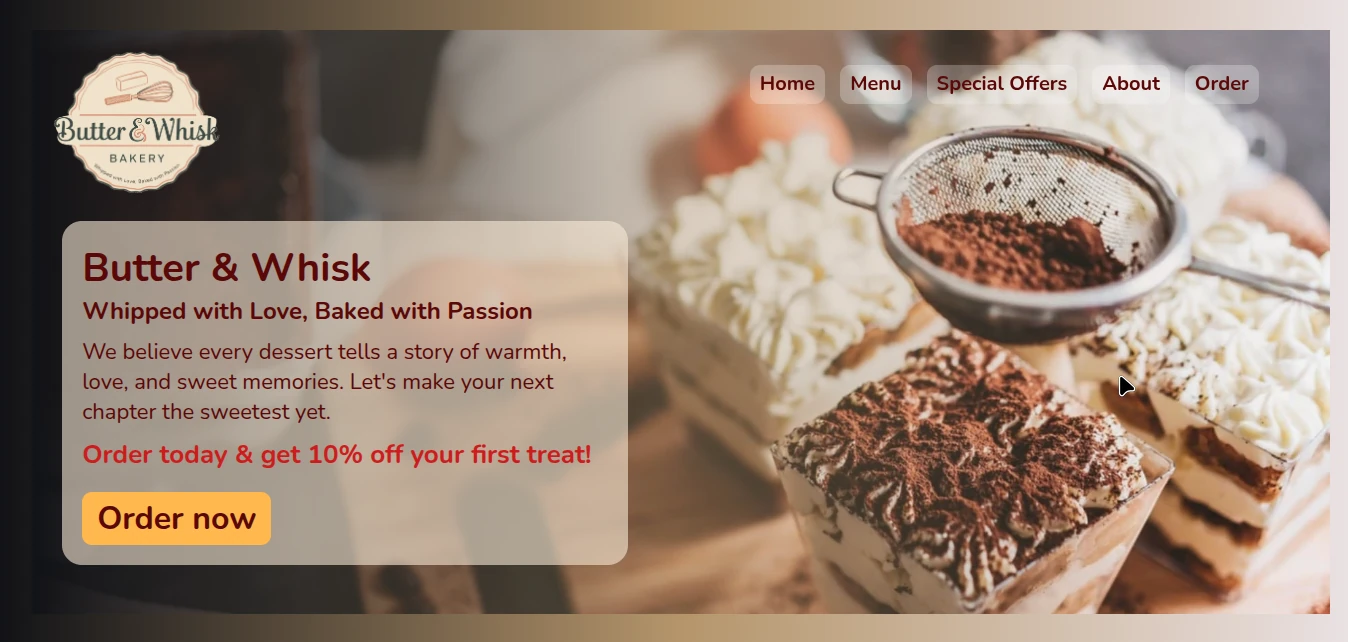
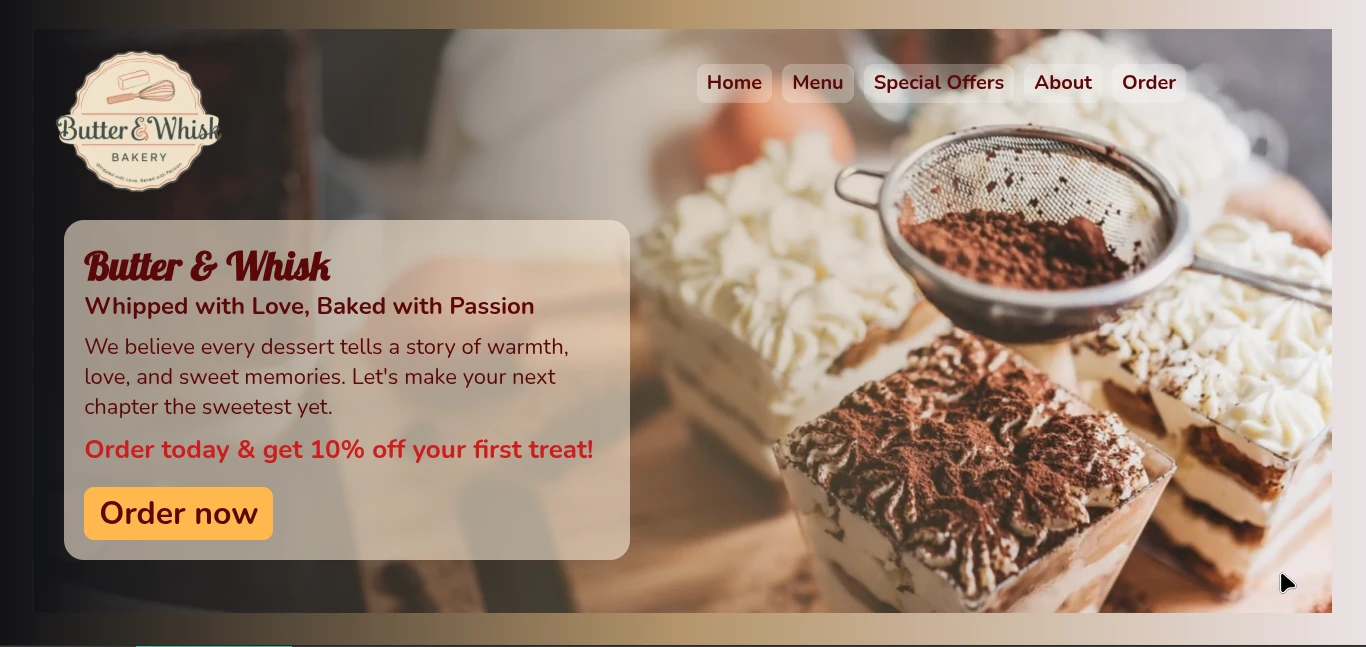
change the font of h1 ,adding new font to css file, change desktop,mobile screenshots

diff --git a/normalize.css b/normalize.css
@@ -1,0 +1,349 @@
+/*! normalize.css v8.0.1 | MIT License | github.com/necolas/normalize.css */
+
+/* Document
+   ========================================================================== */
+
+/**
+ * 1. Correct the line height in all browsers.
+ * 2. Prevent adjustments of font size after orientation changes in iOS.
+ */
+
+html {
+  line-height: 1.15; /* 1 */
+  -webkit-text-size-adjust: 100%; /* 2 */
+}
+
+/* Sections
+   ========================================================================== */
+
+/**
+ * Remove the margin in all browsers.
+ */
+
+body {
+  margin: 0;
+}
+
+/**
+ * Render the `main` element consistently in IE.
+ */
+
+main {
+  display: block;
+}
+
+/**
+ * Correct the font size and margin on `h1` elements within `section` and
+ * `article` contexts in Chrome, Firefox, and Safari.
+ */
+
+h1 {
+  font-size: 2em;
+  margin: 0.67em 0;
+}
+
+/* Grouping content
+   ========================================================================== */
+
+/**
+ * 1. Add the correct box sizing in Firefox.
+ * 2. Show the overflow in Edge and IE.
+ */
+
+hr {
+  box-sizing: content-box; /* 1 */
+  height: 0; /* 1 */
+  overflow: visible; /* 2 */
+}
+
+/**
+ * 1. Correct the inheritance and scaling of font size in all browsers.
+ * 2. Correct the odd `em` font sizing in all browsers.
+ */
+
+pre {
+  font-family: monospace, monospace; /* 1 */
+  font-size: 1em; /* 2 */
+}
+
+/* Text-level semantics
+   ========================================================================== */
+
+/**
+ * Remove the gray background on active links in IE 10.
+ */
+
+a {
+  background-color: transparent;
+}
+
+/**
+ * 1. Remove the bottom border in Chrome 57-
+ * 2. Add the correct text decoration in Chrome, Edge, IE, Opera, and Safari.
+ */
+
+abbr[title] {
+  border-bottom: none; /* 1 */
+  text-decoration: underline; /* 2 */
+  text-decoration: underline dotted; /* 2 */
+}
+
+/**
+ * Add the correct font weight in Chrome, Edge, and Safari.
+ */
+
+b,
+strong {
+  font-weight: bolder;
+}
+
+/**
+ * 1. Correct the inheritance and scaling of font size in all browsers.
+ * 2. Correct the odd `em` font sizing in all browsers.
+ */
+
+code,
+kbd,
+samp {
+  font-family: monospace, monospace; /* 1 */
+  font-size: 1em; /* 2 */
+}
+
+/**
+ * Add the correct font size in all browsers.
+ */
+
+small {
+  font-size: 80%;
+}
+
+/**
+ * Prevent `sub` and `sup` elements from affecting the line height in
+ * all browsers.
+ */
+
+sub,
+sup {
+  font-size: 75%;
+  line-height: 0;
+  position: relative;
+  vertical-align: baseline;
+}
+
+sub {
+  bottom: -0.25em;
+}
+
+sup {
+  top: -0.5em;
+}
+
+/* Embedded content
+   ========================================================================== */
+
+/**
+ * Remove the border on images inside links in IE 10.
+ */
+
+img {
+  border-style: none;
+}
+
+/* Forms
+   ========================================================================== */
+
+/**
+ * 1. Change the font styles in all browsers.
+ * 2. Remove the margin in Firefox and Safari.
+ */
+
+button,
+input,
+optgroup,
+select,
+textarea {
+  font-family: inherit; /* 1 */
+  font-size: 100%; /* 1 */
+  line-height: 1.15; /* 1 */
+  margin: 0; /* 2 */
+}
+
+/**
+ * Show the overflow in IE.
+ * 1. Show the overflow in Edge.
+ */
+
+button,
+input { /* 1 */
+  overflow: visible;
+}
+
+/**
+ * Remove the inheritance of text transform in Edge, Firefox, and IE.
+ * 1. Remove the inheritance of text transform in Firefox.
+ */
+
+button,
+select { /* 1 */
+  text-transform: none;
+}
+
+/**
+ * Correct the inability to style clickable types in iOS and Safari.
+ */
+
+button,
+[type="button"],
+[type="reset"],
+[type="submit"] {
+  -webkit-appearance: button;
+}
+
+/**
+ * Remove the inner border and padding in Firefox.
+ */
+
+button::-moz-focus-inner,
+[type="button"]::-moz-focus-inner,
+[type="reset"]::-moz-focus-inner,
+[type="submit"]::-moz-focus-inner {
+  border-style: none;
+  padding: 0;
+}
+
+/**
+ * Restore the focus styles unset by the previous rule.
+ */
+
+button:-moz-focusring,
+[type="button"]:-moz-focusring,
+[type="reset"]:-moz-focusring,
+[type="submit"]:-moz-focusring {
+  outline: 1px dotted ButtonText;
+}
+
+/**
+ * Correct the padding in Firefox.
+ */
+
+fieldset {
+  padding: 0.35em 0.75em 0.625em;
+}
+
+/**
+ * 1. Correct the text wrapping in Edge and IE.
+ * 2. Correct the color inheritance from `fieldset` elements in IE.
+ * 3. Remove the padding so developers are not caught out when they zero out
+ *    `fieldset` elements in all browsers.
+ */
+
+legend {
+  box-sizing: border-box; /* 1 */
+  color: inherit; /* 2 */
+  display: table; /* 1 */
+  max-width: 100%; /* 1 */
+  padding: 0; /* 3 */
+  white-space: normal; /* 1 */
+}
+
+/**
+ * Add the correct vertical alignment in Chrome, Firefox, and Opera.
+ */
+
+progress {
+  vertical-align: baseline;
+}
+
+/**
+ * Remove the default vertical scrollbar in IE 10+.
+ */
+
+textarea {
+  overflow: auto;
+}
+
+/**
+ * 1. Add the correct box sizing in IE 10.
+ * 2. Remove the padding in IE 10.
+ */
+
+[type="checkbox"],
+[type="radio"] {
+  box-sizing: border-box; /* 1 */
+  padding: 0; /* 2 */
+}
+
+/**
+ * Correct the cursor style of increment and decrement buttons in Chrome.
+ */
+
+[type="number"]::-webkit-inner-spin-button,
+[type="number"]::-webkit-outer-spin-button {
+  height: auto;
+}
+
+/**
+ * 1. Correct the odd appearance in Chrome and Safari.
+ * 2. Correct the outline style in Safari.
+ */
+
+[type="search"] {
+  -webkit-appearance: textfield; /* 1 */
+  outline-offset: -2px; /* 2 */
+}
+
+/**
+ * Remove the inner padding in Chrome and Safari on macOS.
+ */
+
+[type="search"]::-webkit-search-decoration {
+  -webkit-appearance: none;
+}
+
+/**
+ * 1. Correct the inability to style clickable types in iOS and Safari.
+ * 2. Change font properties to `inherit` in Safari.
+ */
+
+::-webkit-file-upload-button {
+  -webkit-appearance: button; /* 1 */
+  font: inherit; /* 2 */
+}
+
+/* Interactive
+   ========================================================================== */
+
+/*
+ * Add the correct display in Edge, IE 10+, and Firefox.
+ */
+
+details {
+  display: block;
+}
+
+/*
+ * Add the correct display in all browsers.
+ */
+
+summary {
+  display: list-item;
+}
+
+/* Misc
+   ========================================================================== */
+
+/**
+ * Add the correct display in IE 10+.
+ */
+
+template {
+  display: none;
+}
+
+/**
+ * Add the correct display in IE 10.
+ */
+
+[hidden] {
+  display: none;
+}

diff --git a/style.css b/style.css
@@ -1,5 +1,5 @@
 @import url('https://fonts.googleapis.com/css2?family=Nunito:ital,wght@0,200..1000;1,200..1000&display=swap');
-
+@import url('https://fonts.googleapis.com/css2?family=Lobster&display=swap');
 *{  
     box-sizing:border-box;
     font-family: "Nunito", sans-serif;
@@ -72,6 +72,7 @@ li{
 }
 h1{
     font-size: 36px;
+     font-family: "Lobster", sans-serif;
 }
 p{
     margin: 10px 0; 
